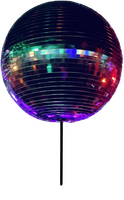
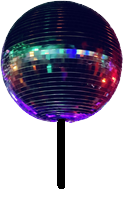
markers mas chicos y event card cambios esteticos

diff --git a/lib/screens/home_page.dart b/lib/screens/home_page.dart
@@ -194,13 +194,6 @@ class EventCard extends StatelessWidget {
         margin: EdgeInsets.all(10.0),
         decoration: BoxDecoration(
           color: Color.fromRGBO(36, 36, 39, 1), // Color(0xFF39393D)
-          /**
-           * Color.fromRGBO(36, 36, 39, 1) //usando este ahora
-           * 
-Color.fromRGBO(37, 37, 41, 1)
-Color.fromRGBO(38, 38, 42, 1)
-Color.fromRGBO(40, 40, 44, 1)
-           */
           borderRadius: BorderRadius.all(Radius.circular(10.0)),
           border: Border.all(
             color: Color.fromRGBO(36, 36, 39, 1),
@@ -270,15 +263,34 @@ Color.fromRGBO(40, 40, 44, 1)
                         ),
                       ),
                       SizedBox(width: 10.0),
-                      Text(
-                        eventage,
-                        style: TextStyle(
-
-                          color: Colors.white,
-                          fontSize: 16.0,
-                        ),
+                      Stack(
+                        children: [
+                          Container(
+                            height: 21,
+                            width: 28,
+                            decoration: BoxDecoration(
+                              color: Color(0xFF993A84),
+                              borderRadius:
+                                  BorderRadius.all(Radius.circular(5.0)),
+                            ),
+                          ),
+                          Positioned(
+                            top: 0,
+                            right: 0,
+                            bottom: 0,
+                            left: 0,
+                            child: Center(
+                              child: Text(
+                                eventage,
+                                style: TextStyle(
+                                  color: Colors.white,
+                                  fontSize: 16.0,
+                                ),
+                              ),
+                            ),
+                          ),
+                        ],
                       ),
-                      
                     ],
                   ),
                 ],

diff --git a/lib/marker_provider.dart b/lib/marker_provider.dart
@@ -18,7 +18,7 @@ class MarkerProvider {
 
   
   Future<List<Marker>> getMarkersFromAddresses(List<String> addresses, List<String> names, List<String> date) async {
-    final byteData = await rootBundle.load("images/finalmarker3.png");
+    final byteData = await rootBundle.load("images/finalmarker4.png");
     final image = Uint8List.view(byteData.buffer);
     
     final markers = <Marker>[];
